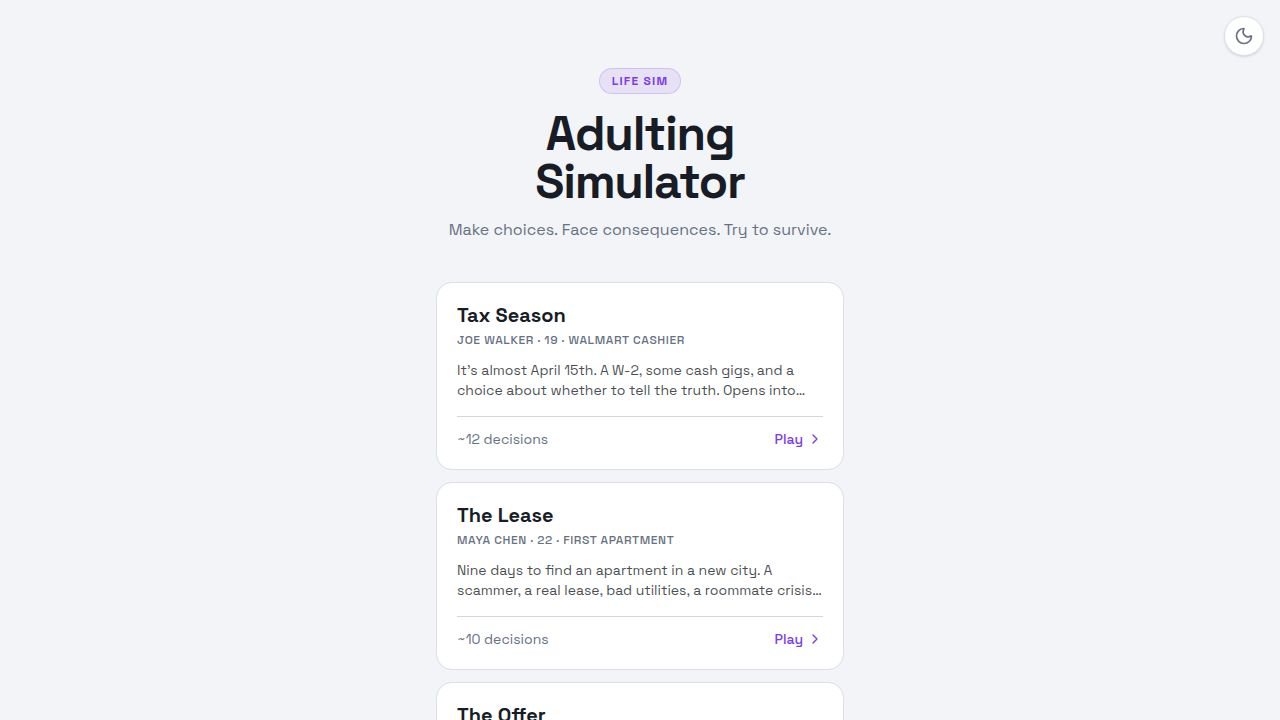
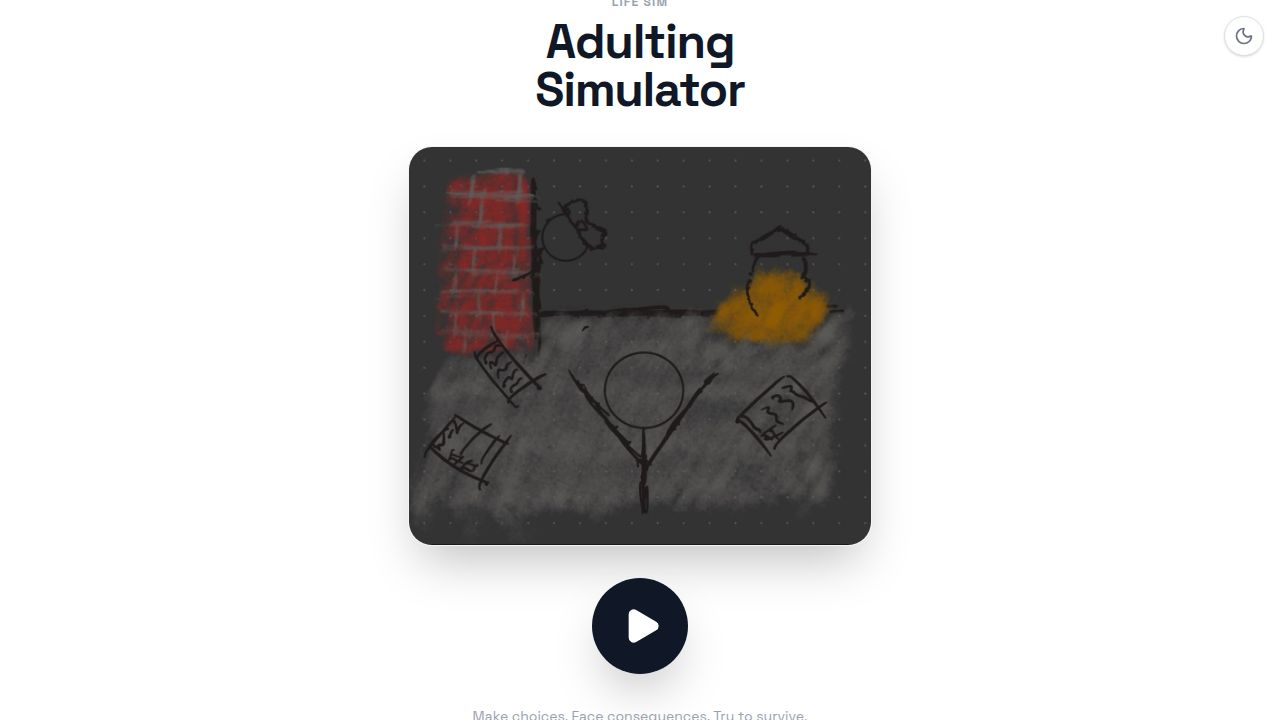
Add a starting screen with a play button and interactive elements
Introduces a new splash screen component to App.tsx and updates useGameState.ts to manage the 'splash' state and startGame callback, setting 'splash' as the initial game state.

Replit-Commit-Author: Agent
Replit-Commit-Session-Id: 9c654794-acf5-4d6d-9cd2-e8677692d0d7
Replit-Commit-Checkpoint-Type: full_checkpoint
Replit-Commit-Event-Id: a118ac6a-20c8-4eac-a6bd-91936d10fdd5
Replit-Commit-Screenshot-Url: https://storage.googleapis.com/screenshot-production-us-central1/b0839a72-3ca5-49e2-8b69-fa5a14b02656/9c654794-acf5-4d6d-9cd2-e8677692d0d7/OXI7Ukl
Replit-Helium-Checkpoint-Created: true

diff --git a/artifacts/adulting-simulator/src/App.tsx b/artifacts/adulting-simulator/src/App.tsx
@@ -110,6 +110,9 @@ export default function App() {
     <div className="min-h-[100dvh] w-full bg-background text-foreground overflow-hidden font-sans">
       <ThemeToggle dark={dark} toggle={toggle} />
       <AnimatePresence mode="wait">
+        {gameState.gameState === 'splash' && (
+          <SplashScreen key="splash" startGame={gameState.startGame} />
+        )}
         {gameState.gameState === 'menu' && (
           <MenuScreen key="menu" {...gameState} />
         )}
@@ -124,6 +127,47 @@ export default function App() {
         )}
       </AnimatePresence>
     </div>
+  );
+}
+
+function SplashScreen({ startGame }: Pick<ReturnType<typeof useGameState>, 'startGame'>) {
+  return (
+    <motion.div
+      initial={{ opacity: 0 }}
+      animate={{ opacity: 1 }}
+      exit={{ opacity: 0 }}
+      className="fixed inset-0 bg-white flex flex-col items-center justify-center"
+    >
+      <div className="flex flex-col items-center gap-8 px-6 w-full max-w-lg">
+        <div className="text-center">
+          <p className="text-xs font-bold uppercase tracking-widest text-gray-400 mb-2">Life Sim</p>
+          <h1 className="text-5xl font-extrabold tracking-tight text-gray-900 leading-none">
+            Adulting<br />Simulator
+          </h1>
+        </div>
+
+        <div className="w-full rounded-3xl overflow-hidden shadow-2xl border border-gray-100">
+          <img
+            src={`${import.meta.env.BASE_URL}start-screen.jpg`}
+            alt="Adulting Simulator"
+            className="w-full object-cover"
+            draggable={false}
+          />
+        </div>
+
+        <motion.button
+          onClick={startGame}
+          whileHover={{ scale: 1.06 }}
+          whileTap={{ scale: 0.94 }}
+          className="w-24 h-24 rounded-full bg-gray-900 text-white flex items-center justify-center shadow-2xl"
+          aria-label="Play"
+        >
+          <Play className="w-10 h-10 ml-1 fill-white" />
+        </motion.button>
+
+        <p className="text-sm text-gray-400">Make choices. Face consequences. Try to survive.</p>
+      </div>
+    </motion.div>
   );
 }
 

diff --git a/artifacts/adulting-simulator/src/hooks/useGameState.ts b/artifacts/adulting-simulator/src/hooks/useGameState.ts
@@ -2,7 +2,7 @@ import { useState, useCallback, useEffect } from 'react';
 import { Scenario, SCENARIOS, SceneChoice } from '../data/scenarios';
 import { CharacterOption, CHARACTERS } from '../data/characters';
 
-export type GameState = 'menu' | 'character-select' | 'playing' | 'consequence' | 'outcome';
+export type GameState = 'splash' | 'menu' | 'character-select' | 'playing' | 'consequence' | 'outcome';
 export type OutcomeRating = 'You Made It' | 'Getting By' | 'Hard Lessons';
 
 export interface ScoreData {
@@ -11,7 +11,7 @@ export interface ScoreData {
 }
 
 export function useGameState() {
-  const [gameState, setGameState] = useState<GameState>('menu');
+  const [gameState, setGameState] = useState<GameState>('splash');
   const [currentScenario, setCurrentScenario] = useState<Scenario | null>(null);
   const [currentSceneId, setCurrentSceneId] = useState<string>('');
   const [pendingScenarioId, setPendingScenarioId] = useState<string | null>(null);
@@ -200,6 +200,10 @@ export function useGameState() {
     setCurrentScenario(null);
   }, []);
 
+  const startGame = useCallback(() => {
+    setGameState('menu');
+  }, []);
+
   return {
     gameState,
     currentScenario,
@@ -217,6 +221,7 @@ export function useGameState() {
     makeChoice,
     continueGame,
     returnToMenu,
+    startGame,
     calculateRating,
   };
 }
